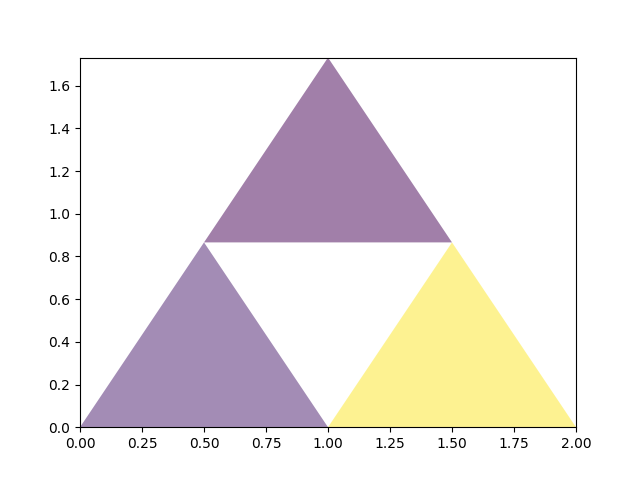
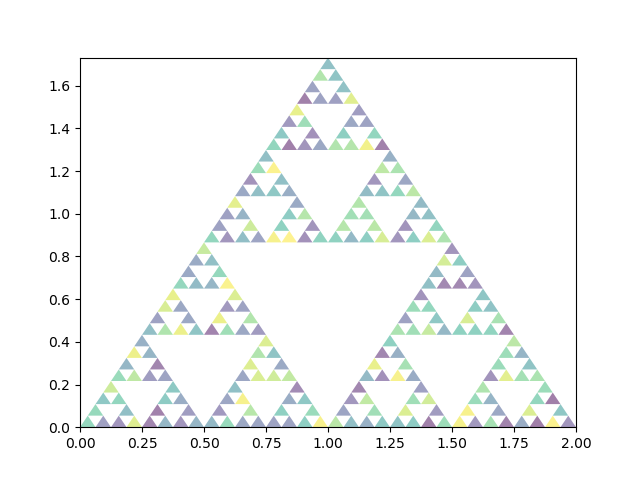
Update default sierpinsky fractal level

Changed region(s): [[0.125, 0.125, 0.9062, 0.9062]]

diff --git a/sierpinsky_points.py b/sierpinsky_points.py
@@ -50,5 +50,5 @@ if __name__=="__main__":
                               Point2(2,0),
                               Point2(1,sqrt(3)) )
 
-    ts = sierpinsky(1, T)
+    ts = sierpinsky(5, T)
     plot_sier(ts)

diff --git a/solutions/sierpinsky_points_solution.py b/solutions/sierpinsky_points_solution.py
@@ -50,5 +50,5 @@ if __name__=="__main__":
                               Point2(2,0),
                               Point2(1,sqrt(3)) )
 
-    ts = sierpinsky(1, T)
+    ts = sierpinsky(5, T)
     plot_sier(ts)
